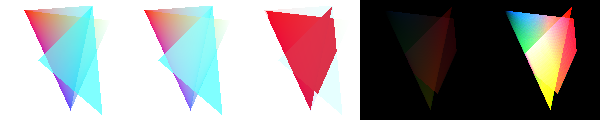
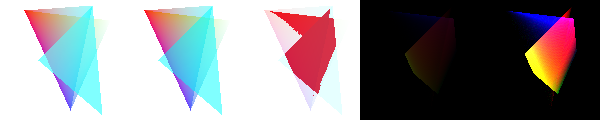
implemented buggy faulting in terrain

diff --git a/MP4_Terrain/terrain.html b/MP4_Terrain/terrain.html
@@ -179,7 +179,44 @@ var surface =
         ]
     }
 
-function generateTerrain() {
+function createVector(x,y,z){
+
+    return [x,y,z]
+}
+
+function randomPoint(){
+    let x = Math.random()*gridsize
+    let y = Math.random()*gridsize
+
+    return createVector(x,y,0)
+}
+
+function randomNormalVec(){
+    let theta = Math.random()*2*Math.PI
+
+    let x = Math.cos(theta)
+    let y = Math.sin(theta)
+
+    return createVector(x,y,0)
+}
+
+function coeffFunction(r){
+    let R = calcDistance(createVector(gridSize,0), createVector(0,gridSize))
+    let g = Math.pow(1 - Math.pow(r/R, 2), 2)
+
+    return g
+}
+
+function calcDistance(p1, p2) {
+  let XDiff = p1.x - p1.x
+  let YDiff = p2.y - p2.y
+
+  let distance = Math.sqrt(XDiff**2 + YDiff**2)
+
+  return distance
+}
+
+function generateTerrain(gridsize, faults) {
     g = {"triangles":
         []
     ,"attributes":
@@ -189,22 +226,55 @@ function generateTerrain() {
             []
         ]
     }
-    g.attributes[0].push([0,0,0])
-    g.attributes[1].push([1,1,1])
-    const n = 24
-    const r = 3
-    for(let i=0; i<n; i+=1) {
-        let ang = i*(2*Math.PI)/n
-        let r2 = r - (i%2)
-        g.attributes[0].push(
-            [Math.cos(ang)*r2,0,Math.sin(ang)*r2],
-        )
-        g.attributes[1].push([0,(i%2),0])
+    // console.log()
+    g.attributes[0].push([0,0,0])   // initialize center position
+    g.attributes[1].push([1,1,1])   // set black as initial color
+
+    const n = gridsize
+    const delta = 1
+
+    for( let fault=0; fault<faults; fault+=1){
+        let p = randomPoint()           // generate a random point p in (x,y) bounds of grid
+        let nVec = randomNormalVec()    // generate a random normal vector n (xn,yn,0)
+        
+        for(let i=0; i<n; i+=1) {
+            for(let j=0; j<n; j+=1){
+
+                let b = createVector(j,i,0)
+                let bp_diff = sub(b,p)
+
+                let n_dot = dot(bp_diff, nVec)
+
+                let r = calcDistance(b,p)
+                let g_r = coeffFunction(r)
+
+                if(n_dot >= 0){
+                    b.z += delta*g_r
+                }
+                else{
+                    b.z -= delta*g_r
+                }
+
+                g.attributes[0].push(
+                    // [Math.cos(ang)*r2,0,Math.sin(ang)*r2],
+                    [b.x, b.y, b.z],
+                    //fault calculation
+                )
+                g.attributes[1].push([0,(i%2),0])
+            }
+            
+        }
     }
+    
     for(let i=0; i<n-1; i+=1) {
-        g.triangles.push(0, i+1, i+2)
+        for(let j=0; j<n-1; j+=1){
+            g.triangles.push(i, i+1, i+j)   
+            g.triangles.push(i+1, i+j, i+j+1) 
+        }
+        
     }
-    g.triangles.push(0, n, 1)
+
+    // normals
 
     return g
 }
@@ -309,7 +379,7 @@ window.addEventListener('load', async (event) => {
 
         // TO DO: generate a new gridsize-by-gridsize grid here, then apply faults to it
         
-        // surface = generateTerrain(gridsize, faults)
+        surface = generateTerrain(gridsize, faults)
         window.geom = setupGeomery(surface)
         
         fillScreen()

diff --git a/MP1_Rasterizer/rasterizer.py b/MP1_Rasterizer/rasterizer.py
@@ -528,11 +528,15 @@ with open(sys.argv[1], 'r') as filename:
                                 new_rgba = []
 
                                 new_a = s_rgba[3] + d_rgba[3]*(1 - s_rgba[3])
+                                # print("s_rgba[3], d_rgba[3]: ", s_rgba[3]*255, d_rgba[3]*255)
+                                # print("new_a: ", new_a*255)
 
                                 for i in range(3):
-                                    new_rgba += [(s_rgba[3]/new_a)*s_rgba[i] + ((new_a - s_rgba[3])/new_a)*d_rgba[i]]
+                                    new_rgba += [(s_rgba[3]/new_a)*s_rgba[i] + (((1 - s_rgba[3])*d_rgba[3])/new_a)*d_rgba[i]]
+                                    print("(s_rgba[3]/new_a)*s_rgba[i]: ", (s_rgba[3]/new_a)*s_rgba[i])
                                 
                                 new_rgba += [new_a]
+                                print("new_rgba: ", new_rgba[0]*255,new_rgba[1]*255,new_rgba[2]*255,new_rgba[3]*255)
                                 
                                 r = new_rgba[0]
                                 g = new_rgba[1]
